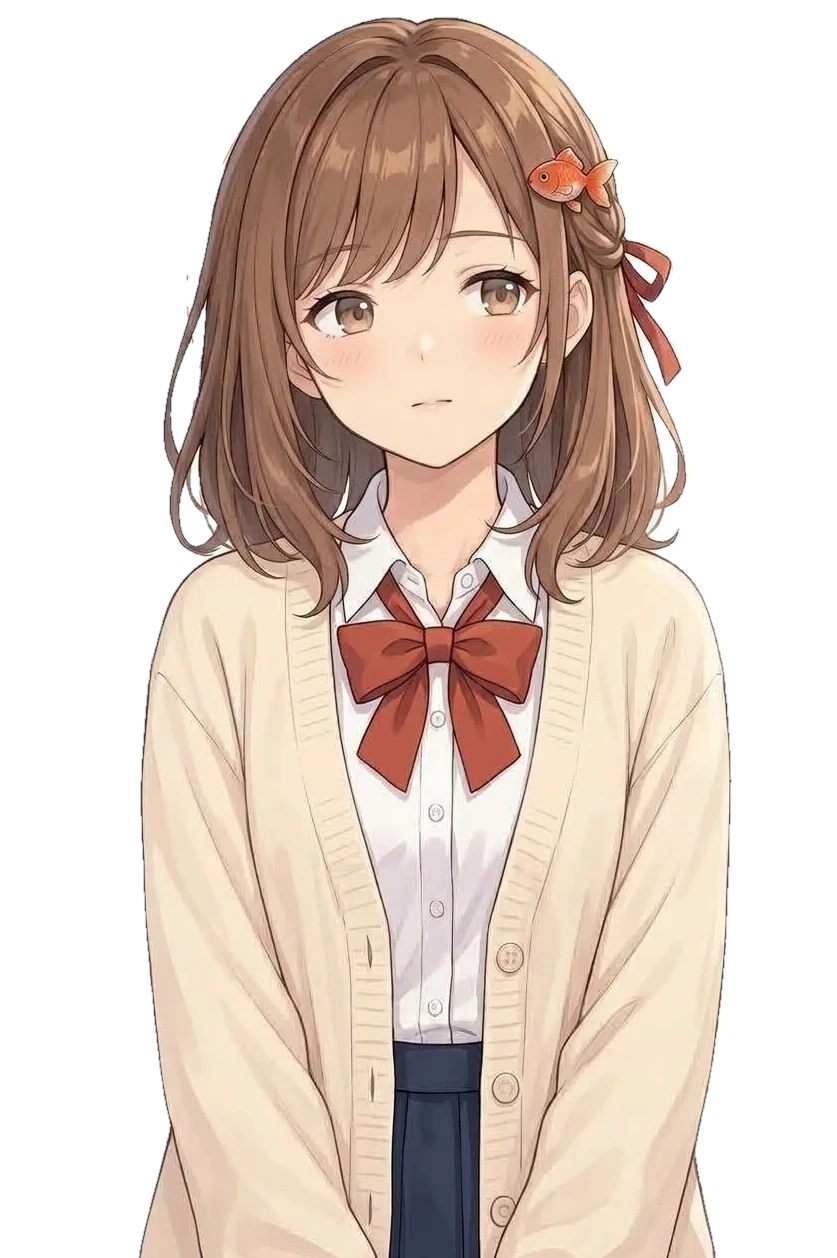
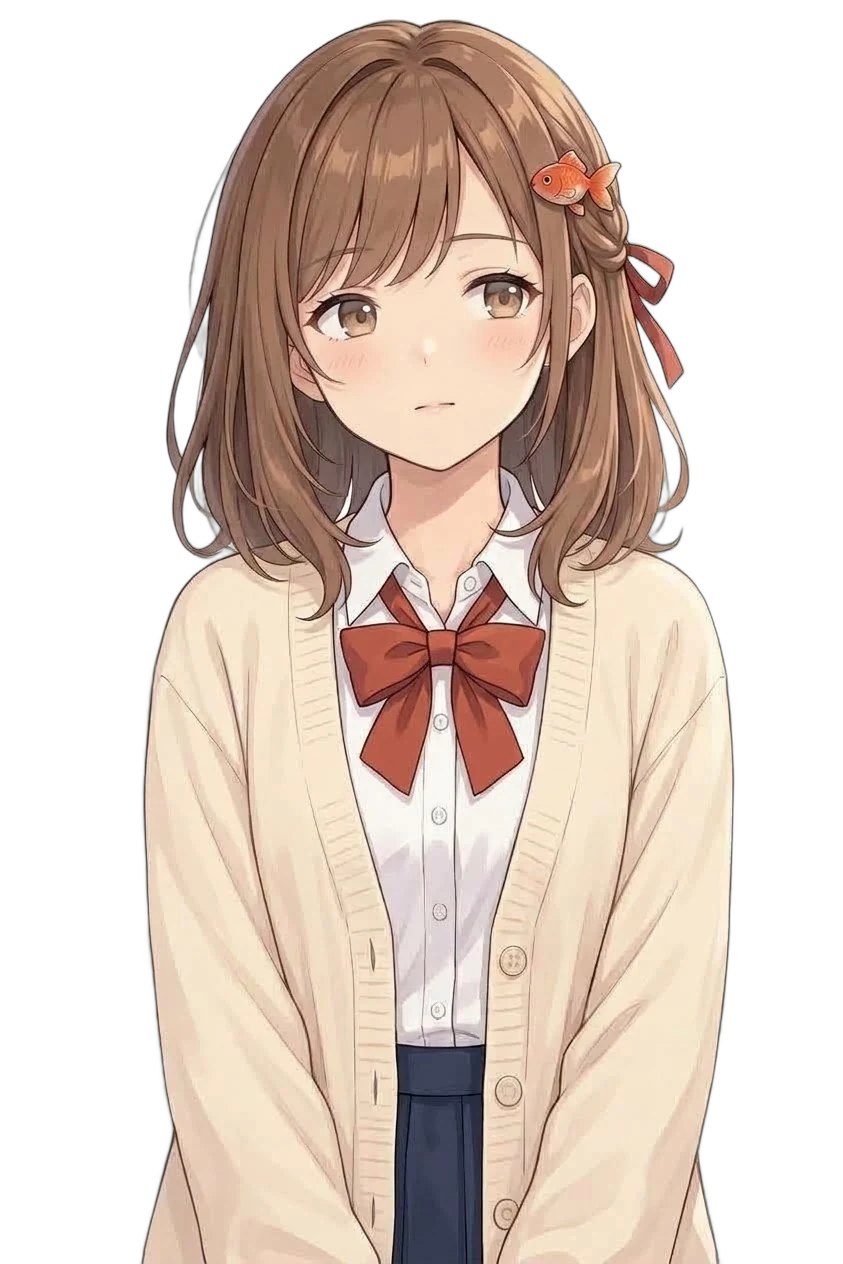
段階18a：立ち絵の背景を、アニメ向けの背景を抜く AI（rembg の isnet-anime）で抜き直す
色の近さで抜く自前の処理は、髪のまわりに白いふちや白い点が残った（開発者がスマホで確認）。
AI で抜くと、髪のすき間の背景も抜け、白いシャツや歯は残る。

Claude-Session: https://claude.ai/code/session_01GAWachzaJMNCU6X8E8s1MW

diff --git a/src/data/assets.ts b/src/data/assets.ts
@@ -70,7 +70,7 @@ function akariPortrait(face: string, title: string, expression: string, base: st
       plan: '無料',
       prompt:
         `Use this image as the base. Keep everything exactly the same: framing, pose, hands hidden at the sides, hair, red goldfish hair clip, ribbon, cardigan, and art style. Change only the facial expression. No props, no text, no magic effects. Expression: ${expression}`,
-      settings: `見本の絵：${base}。白い背景は scripts/cutout.py で抜いた。元の全身の絵は ChatGPT（無料）で作った。その指示文：${AKARI_BASE_PROMPT}`,
+      settings: `見本の絵：${base}。白い背景は scripts/cutout.py（rembg の isnet-anime）で抜いた。元の全身の絵は ChatGPT（無料）で作った。その指示文：${AKARI_BASE_PROMPT}`,
     },
     author: 'RESTOPIA 開発（Google Gemini と ChatGPT で作成）',
     license: 'Google 利用規約（生成した内容の所有権を主張しない）',

diff --git a/scripts/cutout.py b/scripts/cutout.py
@@ -1,103 +1,23 @@
-"""立ち絵の白い背景を透明に抜いて、WebP で書き出す（段階18a）。
+"""立ち絵の背景を透明に抜いて、WebP で書き出す（段階18a）。
 
 使い方: python3 scripts/cutout.py 入力.jpg 出力.webp
-必要なもの: Pillow と numpy（pip install pillow numpy）
+必要なもの: pip install "rembg[cpu]"（初回に、背景を抜く AI のモデル isnet-anime（約180MB）を自動で取ってくる）
 
-白に近く色の薄い部分を、絵のふちからたどって透明にする（服の白など、背景とつながっていない白は残る）。
-髪のすき間などに閉じこめられた背景は、背景と同じ色・同じ平らさで、絵の左右の外側（SIDE より外）にあるものだけ透明にする
-（真ん中の白い歯やシャツを抜かないため。キャラが真ん中に立っている絵を前提にしている）。
-ふちは少しぼかし、背景の白が混ざった色を戻して、白いふちが残らないようにする。
+アニメ調の絵に向いた背景を抜く AI（rembg の isnet-anime）で、キャラ以外を透明にする。
+髪のすき間に閉じこめられた背景も抜け、白いシャツや歯は残る。
+道具は開発の時だけ使い、配布物には入らない（rembg は MIT、isnet-anime は Apache-2.0）。
 """
 
 import sys
-from collections import deque
 
-import numpy as np
-from PIL import Image, ImageFilter
-
-# 背景とみなす色：明るく（どの色も BRIGHT 以上）、色が薄い（最大と最小の差が FLAT 未満）
-BRIGHT = 215
-FLAT = 14
-# 閉じこめられた背景を探す範囲（左右それぞれ、幅のこの割合より外側）
-SIDE = 0.3
-# 外周を切り落とす幅（ピクセル）
-EDGE = 3
-# 白っぽいにじみに背景を広げる回数（ピクセル）
-GROW = 4
+from PIL import Image
+from rembg import new_session, remove
 
 
 def cutout(src: str, dst: str) -> None:
-    # 絵の外周の数ピクセルは、圧縮の名残で色がずれていることがあるので切り落とす
-    rgb = np.asarray(Image.open(src).convert("RGB")).astype(np.float32)[EDGE:-EDGE, EDGE:-EDGE]
-    h, w, _ = rgb.shape
-    candidate = (rgb.min(axis=2) >= BRIGHT) & ((rgb.max(axis=2) - rgb.min(axis=2)) < FLAT)
-
-    # 絵のふちから、背景の候補をたどる
-    bg = np.zeros((h, w), dtype=bool)
-    queue: deque[tuple[int, int]] = deque()
-    for x in range(w):
-        for y in (0, h - 1):
-            if candidate[y, x] and not bg[y, x]:
-                bg[y, x] = True
-                queue.append((y, x))
-    for y in range(h):
-        for x in (0, w - 1):
-            if candidate[y, x] and not bg[y, x]:
-                bg[y, x] = True
-                queue.append((y, x))
-    while queue:
-        y, x = queue.popleft()
-        for ny, nx in ((y - 1, x), (y + 1, x), (y, x - 1), (y, x + 1)):
-            if 0 <= ny < h and 0 <= nx < w and candidate[ny, nx] and not bg[ny, nx]:
-                bg[ny, nx] = True
-                queue.append((ny, nx))
-
-    # 背景の色（抜いた部分の平均）
-    bg_color = rgb[bg].mean(axis=0) if bg.any() else np.array([245.0, 245.0, 240.0])
-
-    # 髪のすき間などに閉じこめられた背景
-    seen = bg.copy()
-    for sy in range(h):
-        for sx in range(w):
-            if not candidate[sy, sx] or seen[sy, sx]:
-                continue
-            seen[sy, sx] = True
-            comp = [(sy, sx)]
-            queue.append((sy, sx))
-            while queue:
-                y, x = queue.popleft()
-                for ny, nx in ((y - 1, x), (y + 1, x), (y, x - 1), (y, x + 1)):
-                    if 0 <= ny < h and 0 <= nx < w and candidate[ny, nx] and not seen[ny, nx]:
-                        seen[ny, nx] = True
-                        comp.append((ny, nx))
-                        queue.append((ny, nx))
-            ys = np.fromiter((p[0] for p in comp), int)
-            xs = np.fromiter((p[1] for p in comp), int)
-            cx = (xs.min() + xs.max()) / 2 / w
-            colors = rgb[ys, xs]
-            same = np.abs(colors.mean(axis=0) - bg_color).max() < 10 and colors.std(axis=0).mean() < 8
-            if same and (cx < SIDE or cx > 1 - SIDE):
-                bg[ys, xs] = True
-
-    # 背景のまわりの白っぽいにじみ（圧縮の名残）にも、背景を数ピクセル広げる（白いふちを残さない）
-    whitish = (rgb.min(axis=2) >= 185) & ((rgb.max(axis=2) - rgb.min(axis=2)) < 32)
-    for step in range(GROW + 1):
-        grown = bg.copy()
-        grown[1:, :] |= bg[:-1, :]
-        grown[:-1, :] |= bg[1:, :]
-        grown[:, 1:] |= bg[:, :-1]
-        grown[:, :-1] |= bg[:, 1:]
-        # 最後の1回は、白っぽくなくても1ピクセルだけ広げる
-        bg = grown if step == GROW else bg | (grown & whitish)
-    alpha_img = Image.fromarray(((~bg) * 255).astype(np.uint8)).filter(ImageFilter.GaussianBlur(0.8))
-    alpha = np.asarray(alpha_img).astype(np.float32) / 255.0
-    alpha[~bg & (alpha < 1)] = np.maximum(alpha[~bg & (alpha < 1)], 0.5)
-
-    # 背景の白が混ざった色を戻す（白いふちを消す）
-    a = np.clip(alpha, 1e-3, 1.0)[..., None]
-    restored = np.clip((rgb - (1 - a) * bg_color) / a, 0, 255)
-    out = np.dstack([restored, alpha * 255]).astype(np.uint8)
-    Image.fromarray(out, "RGBA").save(dst, "WEBP", quality=88, method=6)
+    session = new_session("isnet-anime")
+    out = remove(Image.open(src).convert("RGB"), session=session)
+    out.save(dst, "WEBP", quality=88, method=6)
 
 
 if __name__ == "__main__":

diff --git a/docs/design/tech.md b/docs/design/tech.md
@@ -31,7 +31,7 @@
 | `src/tools/` | 開発用の道具の処理（データの一覧表を作る `dataTables.ts`） |
 | `src/debug/` | デバッグメニュー、戦闘ログ、チート、eruda、ビルド情報 |
 | `tests/` | Vitest のテスト（`tests/core/` がロジック） |
-| `scripts/` | 開発用の命令（`measure.mjs`、`data-tables.mjs`）と、立ち絵の白い背景を抜く `cutout.py`（Python。Pillow と numpy が要る） |
+| `scripts/` | 開発用の命令（`measure.mjs`、`data-tables.mjs`）と、立ち絵の背景を抜く `cutout.py`（Python。`pip install "rembg[cpu]"` が要る。アニメ向けの背景を抜く AI を使う） |
 | `docs/` | 文書（`docs/design/README.md` の一覧）。`docs/licenses/` は利用規約・ライセンス文の控え。`docs/data/` はデータの一覧表（自動で作る） |
 
 ## 3. 設計の原則
@@ -92,7 +92,7 @@
 
 試作の経緯は `docs/SPEC.md` の「実装時の決定事項」。段階14以降で技術の決まりを変えたら、ここに日付・段階・理由を1〜2行で足す。
 
-- 2026-10-08 段階18a：AI で作った立ち絵は、白い背景を `scripts/cutout.py` で透明に抜き、WebP（透明あり、1枚約120KB）で置く。PNG より軽く、スマホのブラウザで読める。話していない人の立ち絵は、重なっても透けないよう、薄くするのではなく暗くする
+- 2026-10-08 段階18a：AI で作った立ち絵は、背景を `scripts/cutout.py`（背景を抜く AI、rembg の isnet-anime。色の近さで抜く自前の処理は髪のまわりに白いふちが残ったのでやめた）で透明に抜き、WebP（透明あり、1枚約120KB）で置く。PNG より軽く、スマホのブラウザで読める。話していない人の立ち絵は、重なっても透けないよう、薄くするのではなく暗くする
 - 段階17：データは TypeScript のまま書き、表は自動で作ると決めた（開発者と相談。数値は Claude に頼んで変える形なので、型とテストで守れる方を取った）。表は画面と同じ説明の処理で作り、表が古いとテストが失敗する
 - 段階16：エンジンを決めるために、探索（タップで歩く、カメラが追う、敵の印が行き来する）と会話（文字送り、選択肢、ログ、早送り）の試作を Phaser 3 で作った。Phaser の機能（カメラの追従と範囲、2つ目のカメラで画面の文字を固定、tween、タイマー、文字の折り返し）で足りた。手間がかかったのは、拡大した画面で文字とボタンを固定するために、地図用と文字用のカメラを分けた所だけ。GPU のない環境で測ったコマ数は、探索 13〜14・会話 13・戦闘 10（どれも同じくらい遅い環境なので比べるだけ）で、探索・会話は今の戦闘より軽い。続けるかは開発者のスマホでの感想を聞いて決める
 - 2026-10-07 段階16：**エンジンは Phaser 3 を続ける**と決めた。開発者のスマホ（Pixel 5a）で、探索の試作が59fps以上を保ち、滑らかさ・会話の文字・操作の手触りとも「とても良かった」

diff --git a/docs/ART.md b/docs/ART.md
@@ -93,8 +93,9 @@ Additional views on the same sheet: back view, 4 facial expressions (bright smil
 
 ## 5. ゲームに入れる時の決まり（段階18a）
 
-- 立ち絵は、白い背景で作ってもらい、`python3 scripts/cutout.py 入力.jpg public/assets/portraits/<キャラ>_<表情>.webp` で背景を透明に抜く（白に近い部分を絵のふちからたどる。髪のすき間に閉じこめられた白は、絵の左右の外側だけ抜く。真ん中の白いシャツや歯は残す）
-- 抜いた後、髪のすき間に小さな白い点が残ることがある（仮の素材では気にしない。本番の素材では手で直すか、作る時に背景を濃い単色にしてもらう）
+- 立ち絵は、白い背景で作ってもらい、`python3 scripts/cutout.py 入力.jpg public/assets/portraits/<キャラ>_<表情>.webp` で背景を透明に抜く。アニメ調の絵に向いた背景を抜く AI（rembg の isnet-anime。無料、この開発の環境で動く）を使う。髪のすき間の背景も抜け、白いシャツや歯は残る
+  - 最初は色の近さで抜く自前の処理にしたが、髪のまわりに白いふちや白い点が残り、開発者がスマホで見て気になった（2026-10-08）。AI で抜く形に変えたら、ふちがきれいになった
+- 元の絵は、できるだけ**作ったままの大きさの PNG**で渡してもらう（縮めたり JPEG にしたりすると、ふちが荒れる）
 - 台帳（`src/data/assets.ts`）に、サービス名・無料か有料か・指示文・見本にした絵・作った日・規約の控え（`docs/licenses/ai-gemini.md`・`ai-openai.md`）を書く。最初は `placeholder`（仮）
 
 ## 6. 音（これから）
